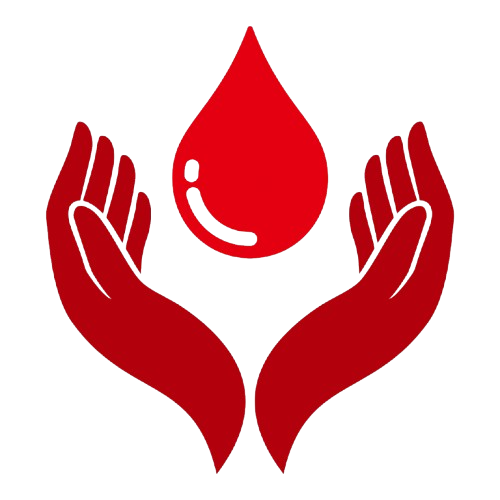
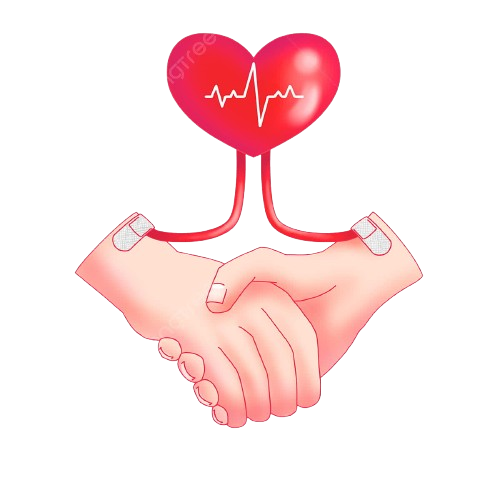
updated project file

diff --git a/README.md b/README.md
@@ -1,36 +1,188 @@
-This is a [Next.js](https://nextjs.org) project bootstrapped with [`create-next-app`](https://github.com/vercel/next.js/tree/canary/packages/create-next-app).
+# BloodBond
 
-## Getting Started
+BloodBond is a full-stack blood donation management platform that connects blood donors with recipients. The platform allows users to register as donors, request blood donations, manage donation requests, and enables administrators and volunteers to efficiently manage the system.
 
-First, run the development server:
+## Purpose
+
+The purpose of BloodBond is to make the blood donation process easier, faster, and more organized by providing a centralized platform where:
+
+- Donors can register and manage their profiles.
+- Recipients can create blood donation requests.
+- Volunteers can help manage donation requests.
+- Administrators can control users, content, and overall system activities.
+
+---
+
+## Live Website
+
+**Live URL:** https://bloodbondfrontend.vercel.app
+
+---
+
+## Client Repository
+
+https://github.com/jumana-rahman/BloodBond-Client
+
+---
+
+## Server Repository
+
+https://github.com/jumana-rahman/BloodBond-Server
+
+---
+
+## Key Features
+
+- Secure authentication using Better Auth
+- Role-based authorization (Admin, Donor, Volunteer)
+- User registration with district and upazila selection
+- JWT-based protected routes
+- Responsive design for desktop, tablet, and mobile
+- Blood donation request management
+- Donor profile management
+- Dashboard for each user role
+- Create, edit, and delete donation requests
+- Search donors by blood group, district, and upazila
+- Donation request status tracking
+- Content management for blogs
+- Image upload using ImgBB
+- Loading states and protected pages
+- 401, 403, and 404 custom pages
+
+---
+
+## Tech Stack
+
+### Frontend
+
+- Next.js
+- React
+- Tailwind CSS
+- HeroUI
+
+### Backend
+
+- Node.js
+- Express.js
+- MongoDB
+- Better Auth
+- JWT
+
+---
+
+## NPM Packages Used
+
+### Frontend
+
+- next
+- react
+- react-dom
+- tailwindcss
+- heroui
+- better-auth
+- react-hot-toast
+- react-icons
+- framer-motion
+
+### Authentication
+
+- better-auth
+
+### Backend
+
+- express
+- mongodb
+- cors
+- dotenv
+- jsonwebtoken
+- cookie-parser
+- bcryptjs
+
+### BloodBond Specific
+
+- bd-upazilas
+- bd-districts
+
+---
+
+## Environment Variables
+
+### Client
+
+```env
+BETTER_AUTH_SECRET=
+NEXT_PUBLIC_API_URL=
+NEXT_PUBLIC_IMAGEBB_KEY=
+NEXT_PUBLIC_BETTER_AUTH_URL=
+```
+
+### Server
+
+```env
+PORT=
+MONGODB_URI=
+JWT_SECRET=
+CLIENT_URL=
+```
+
+---
+
+## Installation
+
+### Clone Client
+
+```bash
+git clone https://github.com/jumana-rahman/BloodBond-Client.git
+```
+
+```bash
+cd BloodBond-Client
+```
+
+```bash
+npm install
+```
 
 ```bash
 npm run dev
-# or
-yarn dev
-# or
-pnpm dev
-# or
-bun dev
 ```
 
-Open [http://localhost:3000](http://localhost:3000) with your browser to see the result.
+---
 
-You can start editing the page by modifying `app/page.js`. The page auto-updates as you edit the file.
+### Clone Server
 
-This project uses [`next/font`](https://nextjs.org/docs/app/building-your-application/optimizing/fonts) to automatically optimize and load [Geist](https://vercel.com/font), a new font family for Vercel.
+```bash
+git clone https://github.com/jumana-rahman/BloodBond-Server.git
+```
 
-## Learn More
+```bash
+cd BloodBond-Server
+```
 
-To learn more about Next.js, take a look at the following resources:
+```bash
+npm install
+```
 
-- [Next.js Documentation](https://nextjs.org/docs) - learn about Next.js features and API.
-- [Learn Next.js](https://nextjs.org/learn) - an interactive Next.js tutorial.
+```bash
+npm run dev
+```
 
-You can check out [the Next.js GitHub repository](https://github.com/vercel/next.js) - your feedback and contributions are welcome!
+---
 
-## Deploy on Vercel
+## Future Improvements
 
-The easiest way to deploy your Next.js app is to use the [Vercel Platform](https://vercel.com/new?utm_medium=default-template&filter=next.js&utm_source=create-next-app&utm_campaign=create-next-app-readme) from the creators of Next.js.
+- Email verification
+- Password reset
+- Real-time notifications
+- Blood request approval workflow
+- Donation history analytics
+- SMS notification integration
+- Dark mode
+- PWA support
 
-Check out our [Next.js deployment documentation](https://nextjs.org/docs/app/building-your-application/deploying) for more details.
+---
+
+## Author
+
+**Jumana Bint Rahman**
+